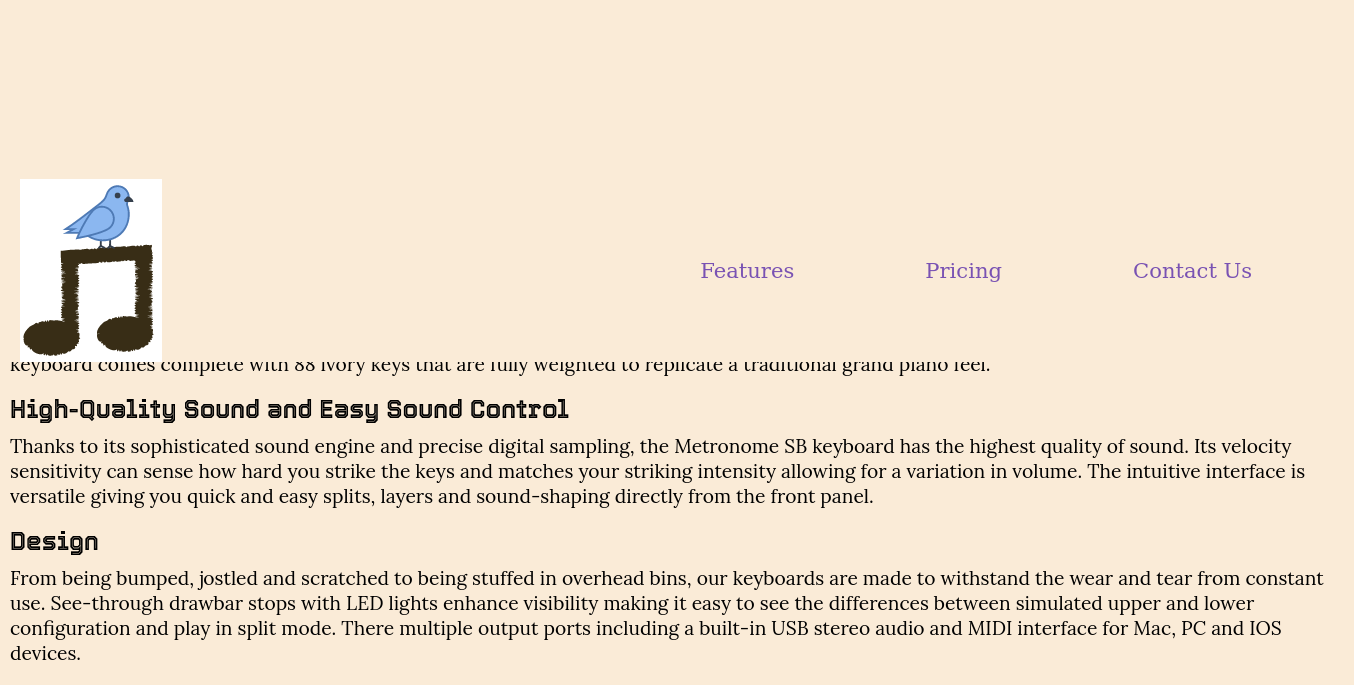
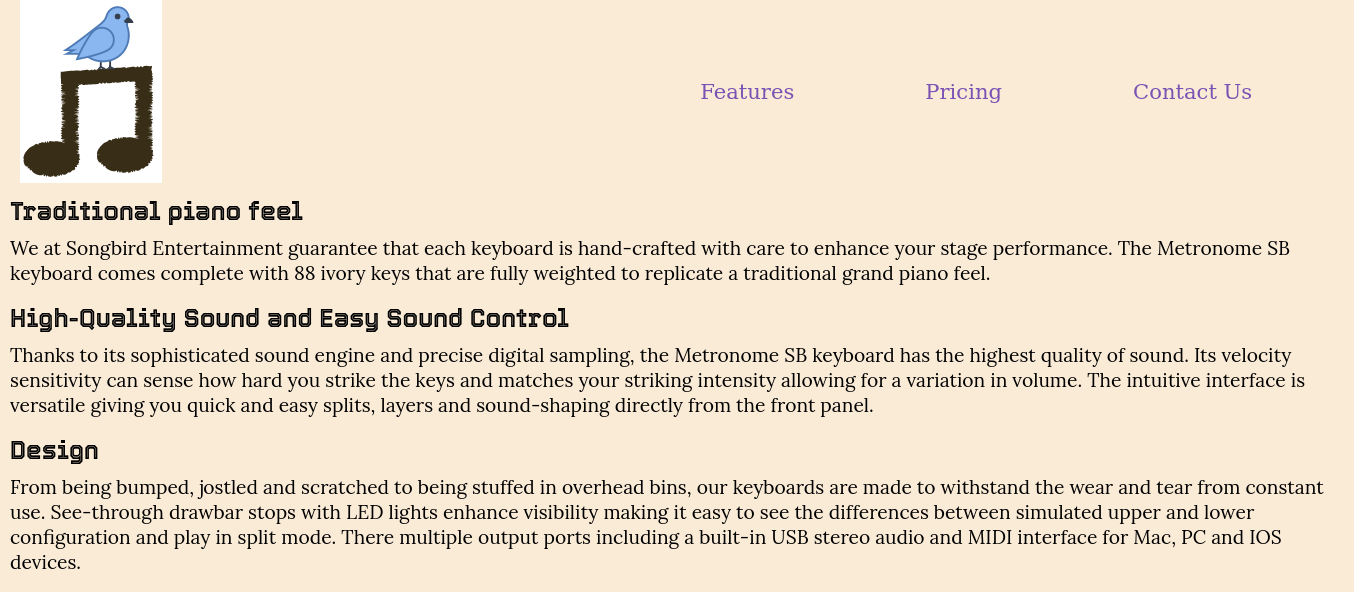
Deleted png file and edited css & html.

diff --git a/style.css b/style.css
@@ -3,7 +3,6 @@
 /*Custom properties/variables*/
 :root {
   --cursive-font: "Pushster", gabriola;
-  --bg-img: url("./assets/cool-background.png");
   --font-family: Garamond, cambria;
 }
 
@@ -32,16 +31,15 @@ html {
 }
 
 body {
-  background: rgb(19, 209, 167);
+  background: rgb(179, 254, 220);
   background: linear-gradient(
     163deg,
-    rgba(19, 209, 167, 1) 0%,
-    rgba(17, 222, 221, 1) 8%,
-    rgba(81, 109, 187, 1) 58%,
-    rgba(12, 95, 212, 1) 100%
+    rgba(179, 254, 220, 1) 4%,
+    rgba(52, 122, 245, 1) 49%,
+    rgba(87, 1, 143, 1) 100%
   );
   font-family: var(--font-family);
-  font-size: 1.8rem;
+  font-size: 2rem;
   font-weight: 400;
   line-height: 1.4;
 }
@@ -49,4 +47,38 @@ body {
 h1,
 h2 {
   font-family: var(--cursive-font);
+  text-align: center;
+}
+
+h1 {
+  font-size: 5rem;
+}
+
+h2 {
+  font-size: 3.2rem;
+}
+
+ul {
+  list-style: none;
+}
+
+a {
+  text-decoration: none;
+  color: #55038c;
+}
+
+img {
+  display: block;
+}
+
+/*nav*/
+
+.nav {
+  display: flex;
+  justify-content: flex-end;
+  position: fixed;
+  top: 0;
+  left: 0;
+  width: 100%;
+  background-color: skyblue;
 }

diff --git a/index.html b/index.html
@@ -2,7 +2,7 @@
 <html lang="en">
   <head>
     <meta charset="UTF-8" />
-    <title>Personal Portfolio</title>
+    <title>Jada Chinapoo | Web Developer</title>
     <link rel="stylesheet" href="style.css" />
   </head>
 
